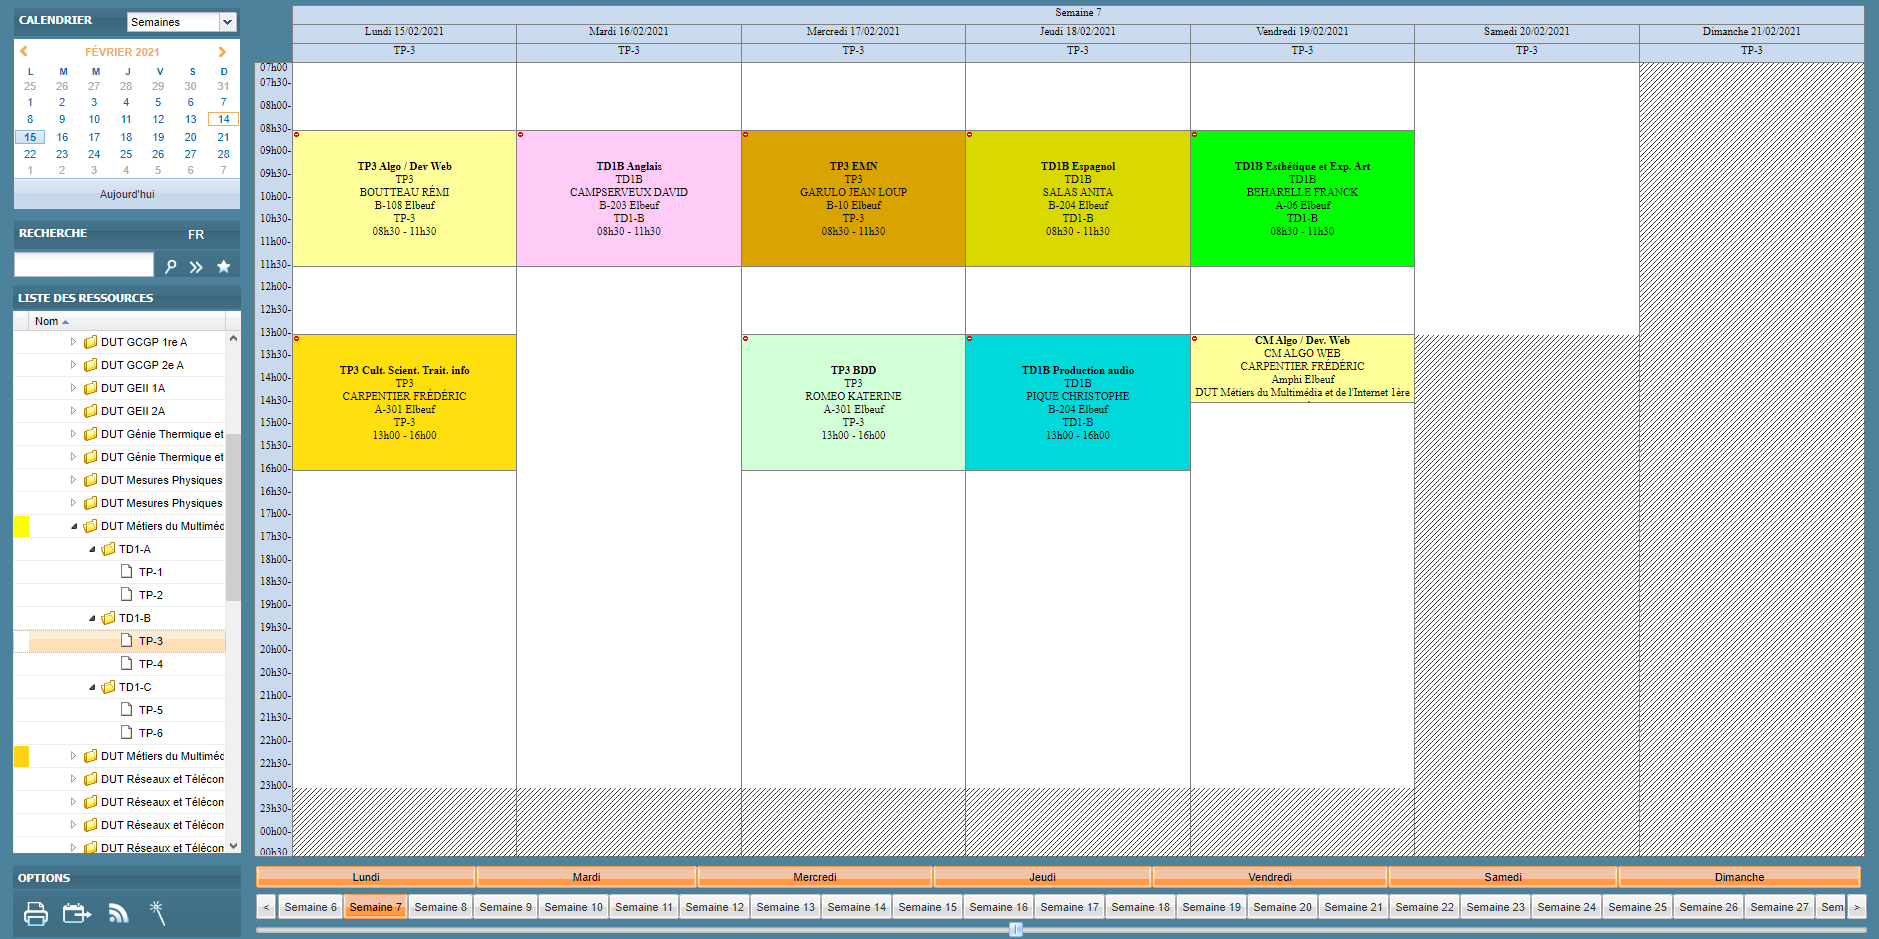
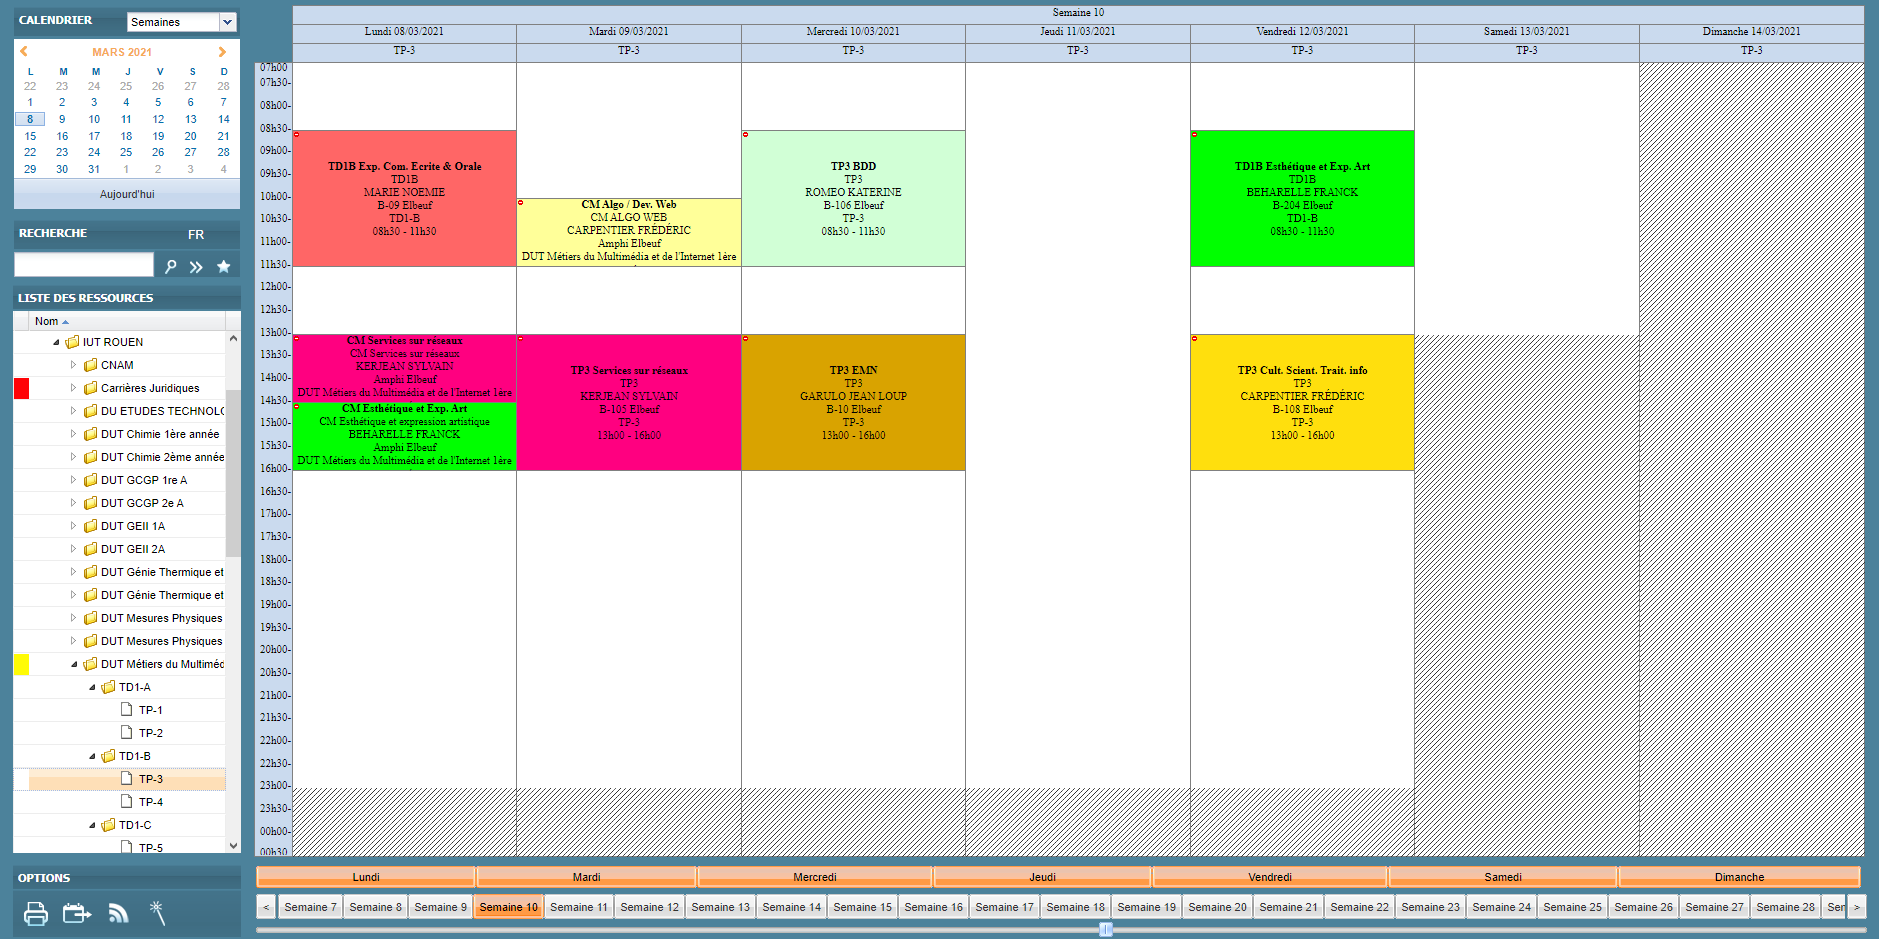
Add files via upload

diff --git a/index.js b/index.js
@@ -152,7 +152,7 @@ Client.on("message", message => {
         var embed = new Discord.MessageEmbed()
         .setColor("#602F98")
         .setTitle("Cahier d'appel du TP1")
-        .setDescription("Semaine 5 : ABDALLAH Anis \nSemaine 6 : ABRAHAM Noah \n***Semaine 7 : AMGOUD Lucas*** \nSemaine 10 : BENOIST Nicolas \nSemaine 11 : BILLAUX Sarah \nSemaine 12 : BLIN Erwan \nSemaine 13 : BONDU Lise \nSemaine 14 : BOUGET Alexandre \nSemaine 15 : BREMAUD Mathieu \nSemaine 16 : CAILLOT Antoine \nSemaine 19 :  CAVAREC Léo \nSemaine 20 : CHANTREUX Raphaël \nSemaine 21 : CHARLET Tom \nSemaine 22 : ABDALLAH Anis \nSemaine 23 : ABRAHAM Noah \nSemaine 24 : AMGOUD Lucas \nSemaine 26 : BENOIST Nicolas \nSemaine 27 : BILLAUX Sarah ")
+        .setDescription("Semaine 5 : ABDALLAH Anis \nSemaine 6 : ABRAHAM Noah \nSemaine 7 : AMGOUD Lucas \n***Semaine 10 : BENOIST Nicolas*** \nSemaine 11 : BILLAUX Sarah \nSemaine 12 : BLIN Erwan \nSemaine 13 : BONDU Lise \nSemaine 14 : BOUGET Alexandre \nSemaine 15 : BREMAUD Mathieu \nSemaine 16 : CAILLOT Antoine \nSemaine 19 :  CAVAREC Léo \nSemaine 20 : CHANTREUX Raphaël \nSemaine 21 : CHARLET Tom \nSemaine 22 : ABDALLAH Anis \nSemaine 23 : ABRAHAM Noah \nSemaine 24 : AMGOUD Lucas \nSemaine 26 : BENOIST Nicolas \nSemaine 27 : BILLAUX Sarah ")
         .setTimestamp()
 
     message.channel.send(embed);
@@ -161,7 +161,7 @@ Client.on("message", message => {
         var embed = new Discord.MessageEmbed()
         .setColor("#602F98")
         .setTitle("Cahier d'appel du TP2")
-        .setDescription("Semaine 5 :  CHARRADA Sofiane \nSemaine 6 : CHARRON Antoine \n***Semaine 7 : CHEVALIER Mathilde*** \nSemaine 10 : CORDIER Julien \nSemaine 11 : COURTES Emma \nSemaine 12 : DAMIENS Alexandre \nSemaine 13 : DAVID Killian \nSemaine 14 : DEBUT Loïc \nSemaine 15 : DEGUFFROY Théo \nSemaine 16 : DESCHAMPS Chloé \nSemaine 19 : DOS SANTOS Théo \nSemaine 20 : DOUCET Anaïs \nSemaine 21 : DUBUC Laurie \nSemaine 22 : CHARRADA Sofiane \nSemaine 23 :  CHARRON Antoine \nSemaine 24 : CHEVALIER Mathilde \nSemaine 26 : CORDIER Julien \nSemaine 27 :  COURTES Emma ")
+        .setDescription("Semaine 5 :  CHARRADA Sofiane \nSemaine 6 : CHARRON Antoine \nSemaine 7 : CHEVALIER Mathilde \n***Semaine 10 : CORDIER Julien*** \nSemaine 11 : COURTES Emma \nSemaine 12 : DAMIENS Alexandre \nSemaine 13 : DAVID Killian \nSemaine 14 : DEBUT Loïc \nSemaine 15 : DEGUFFROY Théo \nSemaine 16 : DESCHAMPS Chloé \nSemaine 19 : DOS SANTOS Théo \nSemaine 20 : DOUCET Anaïs \nSemaine 21 : DUBUC Laurie \nSemaine 22 : CHARRADA Sofiane \nSemaine 23 :  CHARRON Antoine \nSemaine 24 : CHEVALIER Mathilde \nSemaine 26 : CORDIER Julien \nSemaine 27 :  COURTES Emma ")
         .setTimestamp()
 
     message.channel.send(embed);
@@ -170,7 +170,7 @@ Client.on("message", message => {
         var embed = new Discord.MessageEmbed()
         .setColor("#602F98")
         .setTitle("Cahier d'appel du TP3")
-        .setDescription("Semaine 5 : DUPREZ Virgile \nSemaine 6 : FAUCON Matthias \n***Semaine 7 : FLAMME Lisa*** \nSemaine 10 : FLEURET Alex \nSemaine 11 : GABORIT Clarence \nSemaine 12 : GAILLARD Léo \nSemaine 13 : GERARD Romain \nSemaine 14 : GIBEAUX Hugo  \nSemaine 15 : GODARD Jean \nSemaine 16 : GRATIGNY Samson \nSemaine 19 : GREBOVAL Virgil \nSemaine 20 : GRIMAL Florine \nSemaine 21 : GUEGAN Erwann \nSemaine 22 : DUPREZ Virgile \nSemaine 23 : FAUCON Matthias \nSemaine 24 : FLAMME Lisa \nSemaine 26 : FLEURET Alex \nSemaine 27 : GABORIT Clarence ")
+        .setDescription("Semaine 5 : DUPREZ Virgile \nSemaine 6 : FAUCON Matthias \nSemaine 7 : FLAMME Lisa \n***Semaine 10 : FLEURET Alex*** \nSemaine 11 : GABORIT Clarence \nSemaine 12 : GAILLARD Léo \nSemaine 13 : GERARD Romain \nSemaine 14 : GIBEAUX Hugo  \nSemaine 15 : GODARD Jean \nSemaine 16 : GRATIGNY Samson \nSemaine 19 : GREBOVAL Virgil \nSemaine 20 : GRIMAL Florine \nSemaine 21 : GUEGAN Erwann \nSemaine 22 : DUPREZ Virgile \nSemaine 23 : FAUCON Matthias \nSemaine 24 : FLAMME Lisa \nSemaine 26 : FLEURET Alex \nSemaine 27 : GABORIT Clarence ")
         .setTimestamp()
 
     message.channel.send(embed);
@@ -179,7 +179,7 @@ Client.on("message", message => {
         var embed = new Discord.MessageEmbed()
         .setColor("#602F98")
         .setTitle("Cahier d'appel du TP4")
-        .setDescription("Semaine 5 : GUEOUAL Camil \nSemaine 6 : HERNANDEZ Alexis \n***Semaine 7 : HERSANT Nolwenn*** \nSemaine 10 : JUHE Florian \nSemaine 11 : JULIEN Etienne \nSemaine 12 : KALA Axel \nSemaine 13 : LAHAYE Antoine \nSemaine 14 : LE MAP Louise  \nSemaine 15 : LEFEBVRE Angèle \nSemaine 16 : LEGER Luke \nSemaine 19 : LEJEUNE Alexis \nSemaine 20 : LEMONNIER Eythann \nSemaine 21 : MILITE Valentin \nSemaine 22 : GUEOUAL Camil \nSemaine 23 : HERNANDEZ Alexis \nSemaine 24 : HERSANT Nolwenn \nSemaine 26 : JUHE Florian \nSemaine 27 : JULIEN Etienne ")
+        .setDescription("Semaine 5 : GUEOUAL Camil \nSemaine 6 : HERNANDEZ Alexis \nSemaine 7 : HERSANT Nolwenn \n***Semaine 10 : JUHE Florian*** \nSemaine 11 : JULIEN Etienne \nSemaine 12 : KALA Axel \nSemaine 13 : LAHAYE Antoine \nSemaine 14 : LE MAP Louise  \nSemaine 15 : LEFEBVRE Angèle \nSemaine 16 : LEGER Luke \nSemaine 19 : LEJEUNE Alexis \nSemaine 20 : LEMONNIER Eythann \nSemaine 21 : MILITE Valentin \nSemaine 22 : GUEOUAL Camil \nSemaine 23 : HERNANDEZ Alexis \nSemaine 24 : HERSANT Nolwenn \nSemaine 26 : JUHE Florian \nSemaine 27 : JULIEN Etienne ")
         .setTimestamp()
 
     message.channel.send(embed);
@@ -188,7 +188,7 @@ Client.on("message", message => {
         var embed = new Discord.MessageEmbed()
         .setColor("#602F98")
         .setTitle("Cahier d'appel du TP5")
-        .setDescription("Semaine 5 : LEMPEREUR Baptiste \nSemaine 6 : LIEURY Bérengère \n***Semaine 7 : LIGER Pierre*** \nSemaine 10 : LORDET Simon \nSemaine 11 : PETIT Mattéo \nSemaine 12 : MABIRE Raphaël \nSemaine 13 : MALLET Paul \nSemaine 14 : MARTIN Clara \nSemaine 15 : MESSIER Jade \nSemaine 16 : MICHEL Amandine \nSemaine 19 :MOUCHEL GROSDOS Baptiste \nSemaine 20 : MOULIN Mélina \nSemaine 21 : LEMPEREUR Baptiste \nSemaine 22 : LIEURY Bérengère \nSemaine 23 : LIGER Pierre \nSemaine 24 : LORDET Simon \nSemaine 26 : PETIT Mattéo \nSemaine 27 : MABIRE Raphaël ")
+        .setDescription("Semaine 5 : LEMPEREUR Baptiste \nSemaine 6 : LIEURY Bérengère \nSemaine 7 : LIGER Pierre \n***Semaine 10 : LORDET Simon*** \nSemaine 11 : PETIT Mattéo \nSemaine 12 : MABIRE Raphaël \nSemaine 13 : MALLET Paul \nSemaine 14 : MARTIN Clara \nSemaine 15 : MESSIER Jade \nSemaine 16 : MICHEL Amandine \nSemaine 19 :MOUCHEL GROSDOS Baptiste \nSemaine 20 : MOULIN Mélina \nSemaine 21 : LEMPEREUR Baptiste \nSemaine 22 : LIEURY Bérengère \nSemaine 23 : LIGER Pierre \nSemaine 24 : LORDET Simon \nSemaine 26 : PETIT Mattéo \nSemaine 27 : MABIRE Raphaël ")
         .setTimestamp()
 
     message.channel.send(embed);
@@ -197,7 +197,7 @@ Client.on("message", message => {
         var embed = new Discord.MessageEmbed()
         .setColor("#602F98")
         .setTitle("Cahier d'appel du TP6")
-        .setDescription("Semaine 5 : ARTAUD Raphaëlle \nSemaine 6 : NOURRY Matthias \n***Semaine 7 : PANNIER Sacha*** \nSemaine 10 : LYSCENZUK Léa \nSemaine 11 : ROBERT Tom \nSemaine 12 : RONGEAT Mathis \nSemaine 13 : ROUSSELLE Ylan \nSemaine 14 : SAUSSAYE Clément \nSemaine 15 : SUZUKI Ange \nSemaine 16 : VAILLANT Paul \nSemaine 19 : VAUCLIN Theo \nSemaine 20 : VERGAUWE Logan \nSemaine 21 : VIGOR Cassandra \nSemaine 22 : ARTAUD Raphaëlle \nSemaine 23 : NOURRY Matthias \nSemaine 24 : PANNIER Sacha \nSemaine 26 : LYSCENZUK Léa \nSemaine 27 : ROBERT Tom ")
+        .setDescription("Semaine 5 : ARTAUD Raphaëlle \nSemaine 6 : NOURRY Matthias \nSemaine 7 : PANNIER Sacha \n***Semaine 10 : LYSCENZUK Léa*** \nSemaine 11 : ROBERT Tom \nSemaine 12 : RONGEAT Mathis \nSemaine 13 : ROUSSELLE Ylan \nSemaine 14 : SAUSSAYE Clément \nSemaine 15 : SUZUKI Ange \nSemaine 16 : VAILLANT Paul \nSemaine 19 : VAUCLIN Theo \nSemaine 20 : VERGAUWE Logan \nSemaine 21 : VIGOR Cassandra \nSemaine 22 : ARTAUD Raphaëlle \nSemaine 23 : NOURRY Matthias \nSemaine 24 : PANNIER Sacha \nSemaine 26 : LYSCENZUK Léa \nSemaine 27 : ROBERT Tom ")
         .setTimestamp()
 
     message.channel.send(embed);
